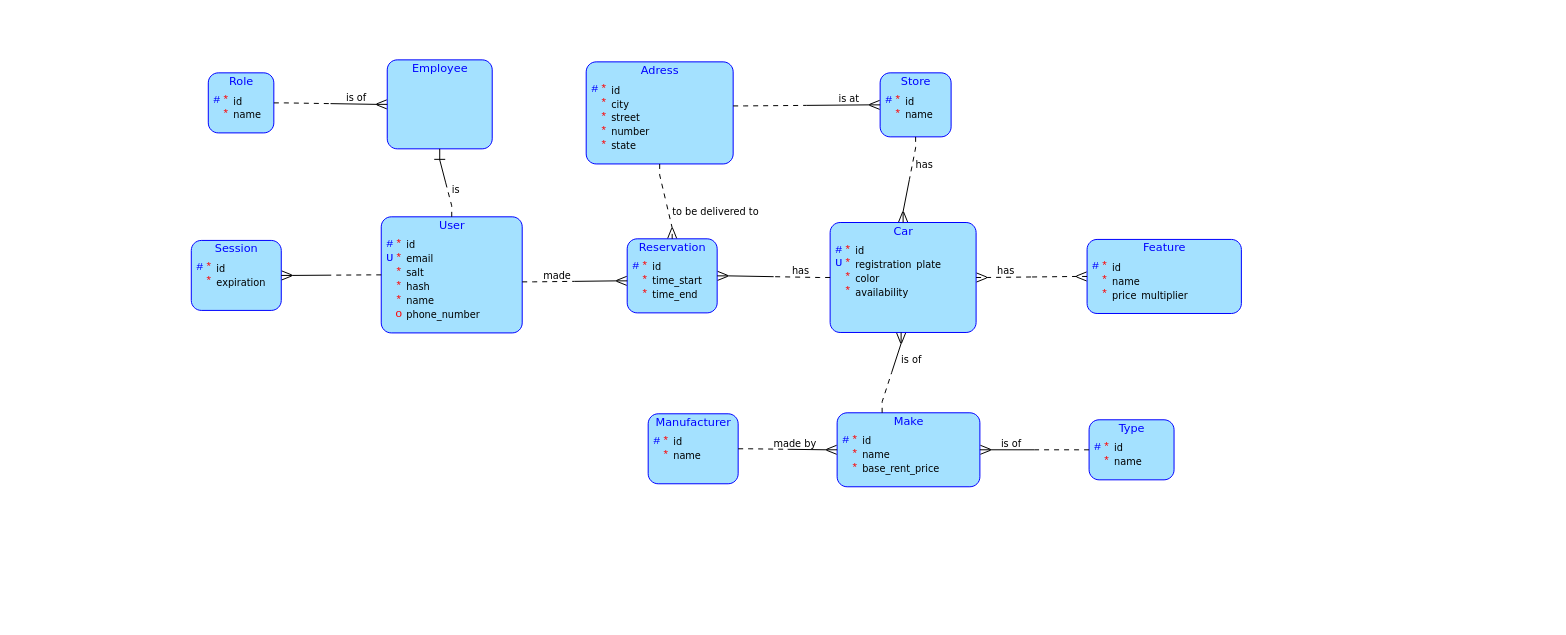
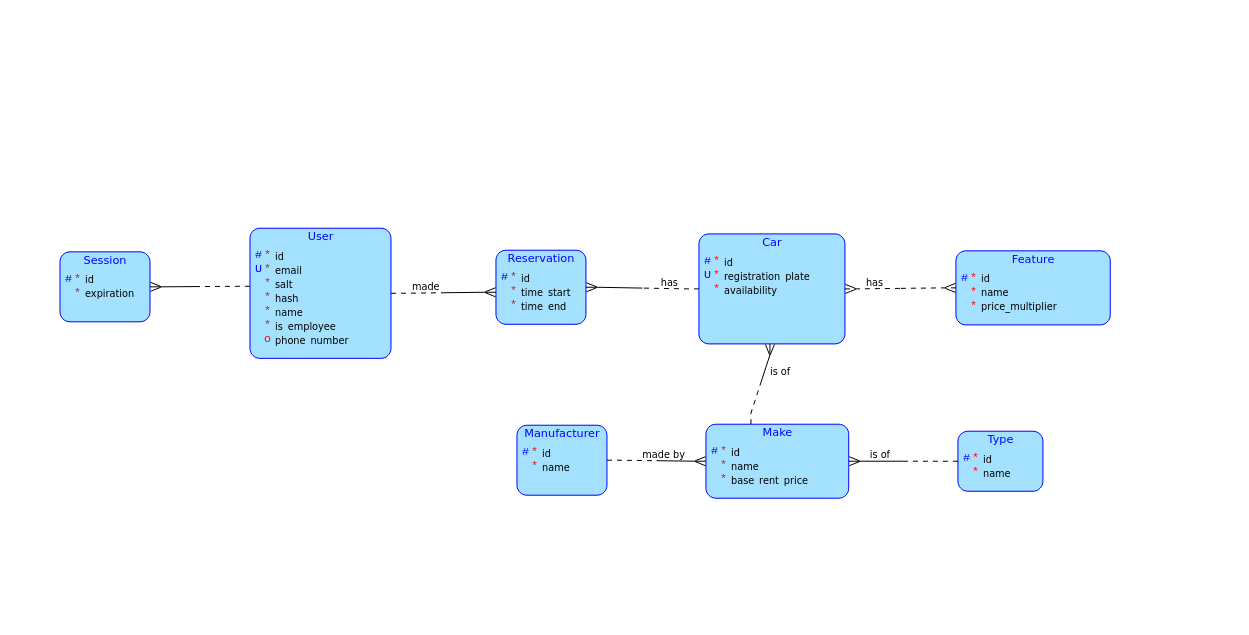
Simplify specification

diff --git a/first_control_point/popis.md b/first_control_point/popis.md
@@ -1,8 +1,8 @@
 ## Business operace klienta
 
- - Každý může prohlížet auta a může k vyhledávání přidat filtry (požadovaný časový interval, barvu, druh auta, výrobce, ...)
- - Přihlášený uživatel může rezervovat dostupné auto pro zadaný časový interval (dostupné = není kolize s jinou rezervací stejného auta). Svoje rezervace může před začátkem pozměnit, či zrušit.
- - Přihlášený zaměstnanec se specifickou rolí může přidávat, měnit či odebírat auta, jiná role zas může přidávat či odebírat zaměstnance, a podobně. 
+ - Každý může prohlížet auta a může k vyhledávání přidat filtry (požadovaný časový interval, druh auta, výrobce, ...)
+ - Přihlášený uživatel může rezervovat dostupné auto pro zadaný časový interval (dostupné = není kolize s jinou rezervací stejného auta a je na pronajmutí). Svoje rezervace může před začátkem pozměnit, či zrušit.
+ - Přihlášený zaměstnanec se může přidávat, měnit či odebírat auta, měnit ostatní uživatele, apod.
 
 ## Datový model
 
